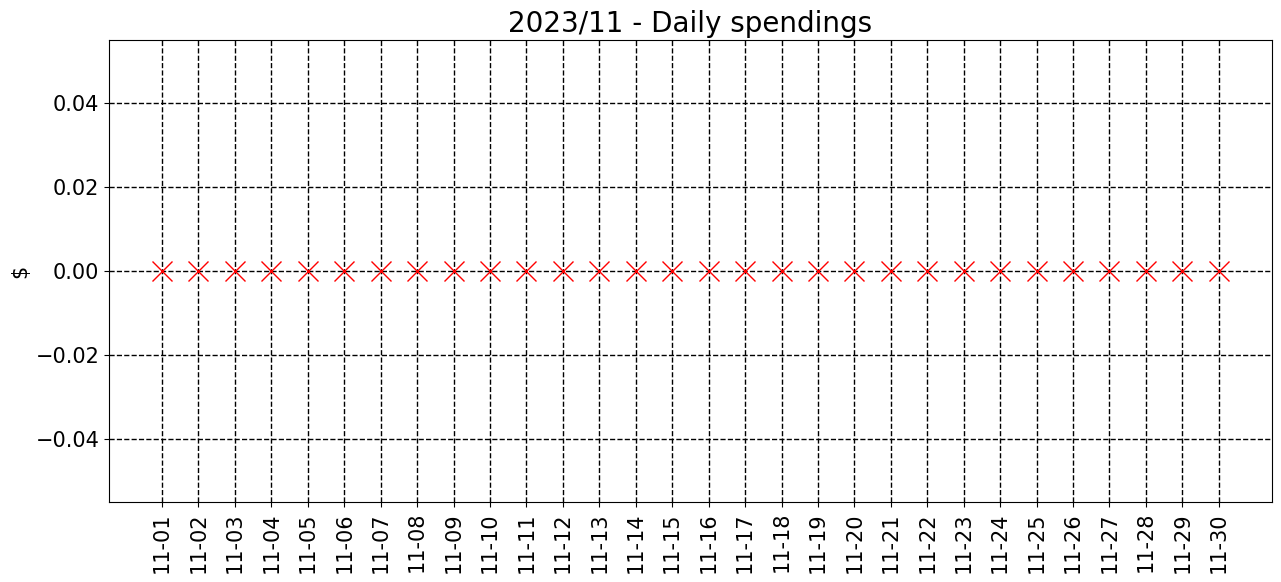
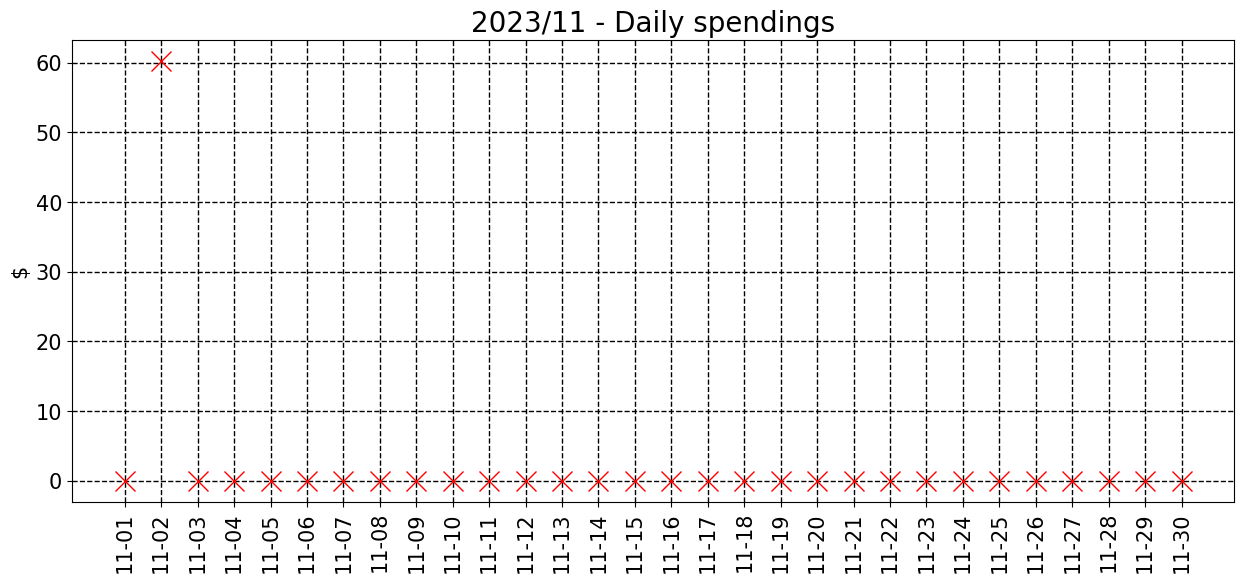
commit from python

Changed region(s): [[0.0305, 0.0, 1.0, 0.9897]]

diff --git a/README.md b/README.md
@@ -7,7 +7,7 @@ __________________________________
 <sub><sup>
 | Spent | Avg daily | End of month projection | Spent since 2023/7 |
 |---|---|---|---|
-| $0.0  |  $0.0  | $0.0  |  $20304.0  |
+| $60.0  |  $30.2  | $906.0  |  $20364.0  |
 </sub></sup>
 __________________________________
 ![graph_11_sum](graph_11_sum.png)
